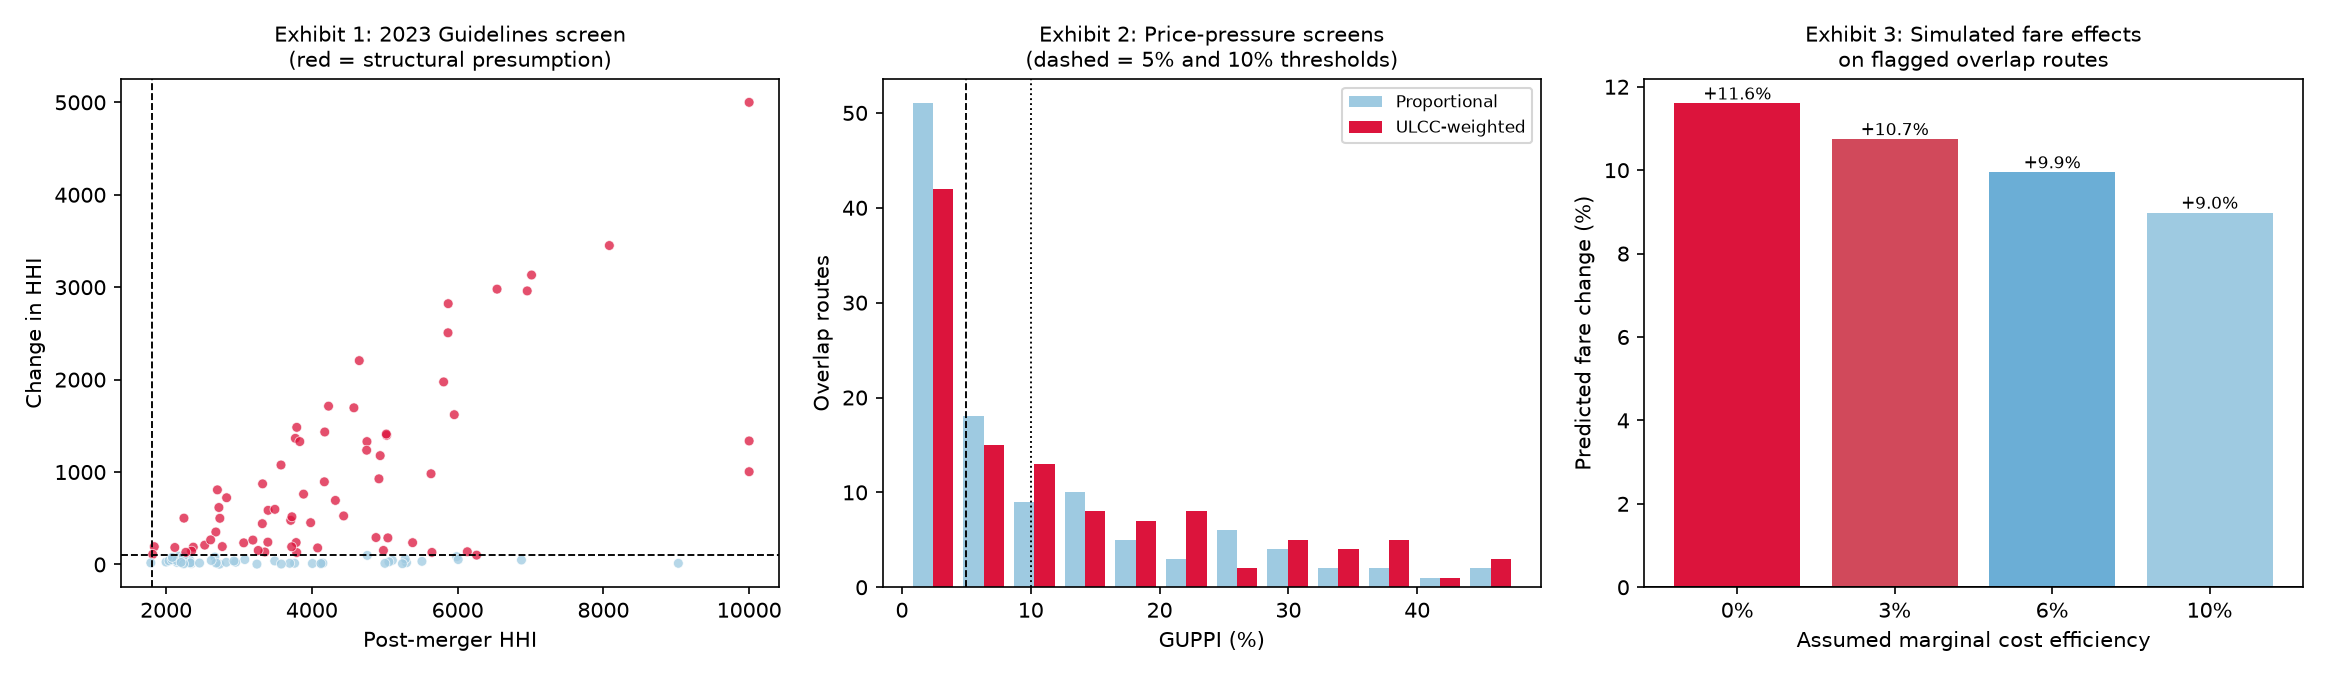
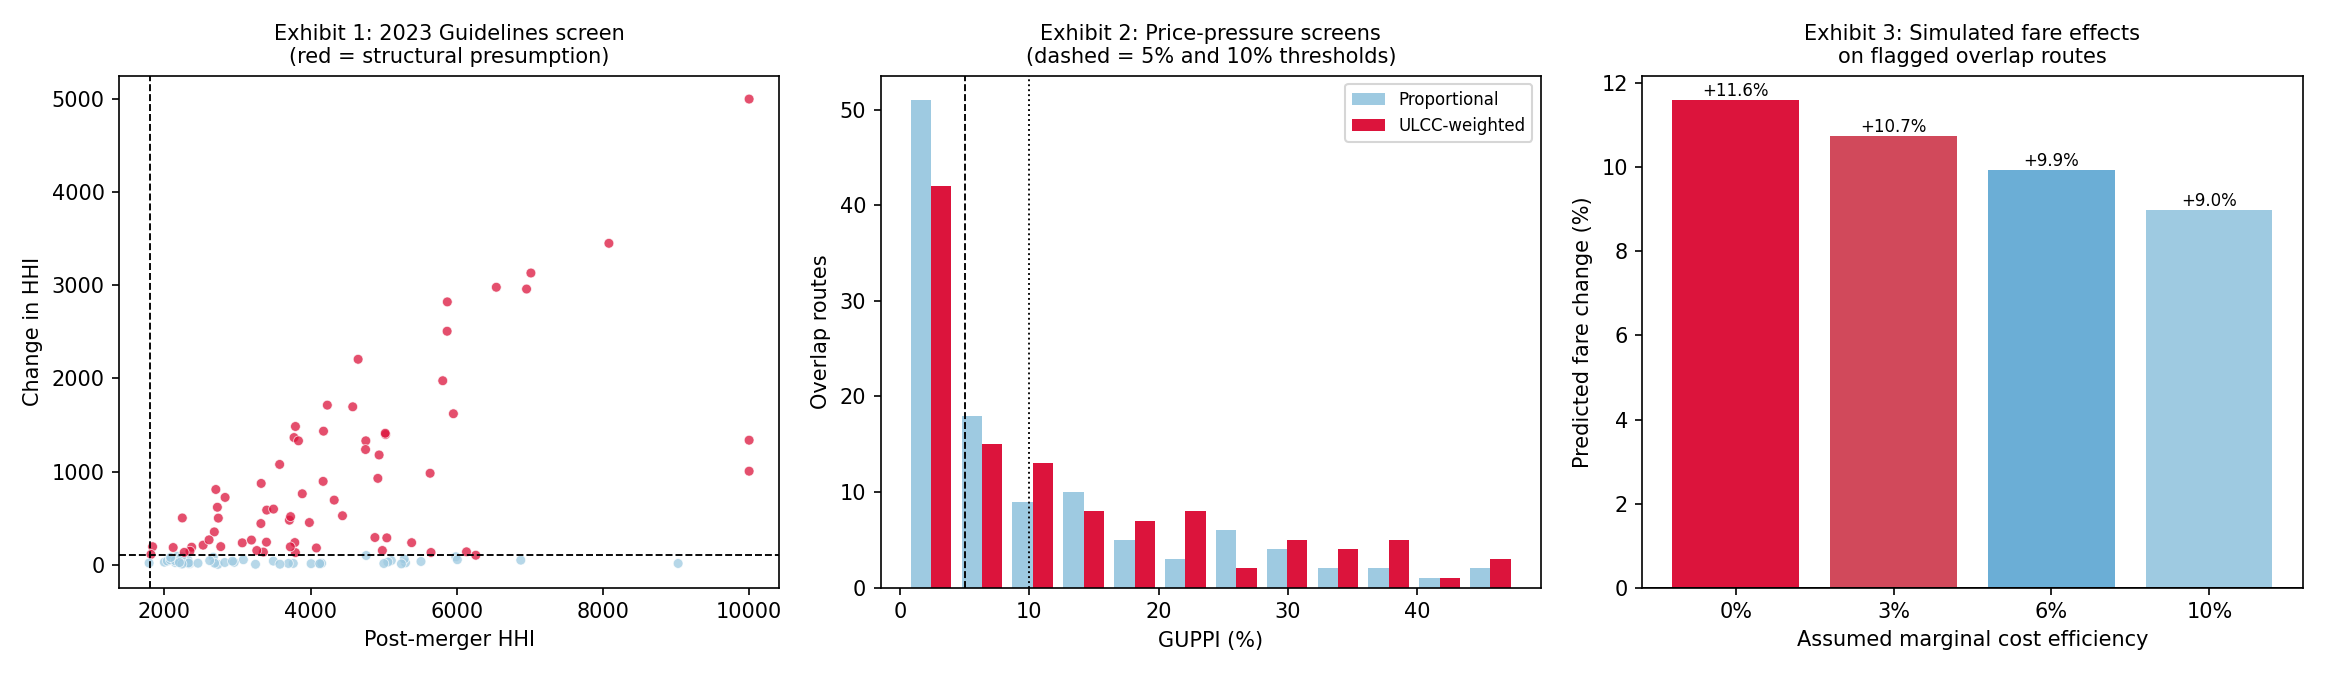
Update README and db1b cleaning rules

diff --git a/README.md b/README.md
@@ -1,10 +1,10 @@
 # Merger Competitive Effects Analysis — JetBlue / Spirit
 
 A route-level competitive effects analysis of JetBlue's proposed
-acquisition of Spirit Airlines, working the four standard tools of
-merger review — concentration screens, market definition, unilateral
-effects, and merger simulation — against the case Department of Justice (DOJ) actually brought
-and won.
+acquisition of Spirit Airlines, built on **26 million real DOT ticket
+records**, working the four standard tools of merger review —
+concentration screens, market definition, unilateral effects, and
+merger simulation — against the case DOJ actually brought and won.
 
 ![Exhibits](output/exhibits.png)
 
@@ -21,80 +21,134 @@ Spirit's aircraft and charge JetBlue's higher fares. On concentrated
 routes where both carriers competed, eliminating Spirit would raise
 prices for exactly the travelers least able to absorb them.
 
-Critically, the case turned on **specific overlapping routes**, not the
-national market — two airlines can look small nationally while
-dominating dozens of individual city pairs. That is how airline merger
-analysis always works, and it is how this analysis is structured.
+The case turned on **specific overlapping routes**, not the national
+market — two airlines can look small nationally while dominating dozens
+of individual city pairs. That is how airline merger analysis works,
+and it is how this analysis is structured.
+
+The fare data shows why the theory had force:
+
+| Carrier | Avg. one-way fare | Routes |
+|---|---|---|
+| Allegiant (G4) | $87 | 439 |
+| Frontier (F9) | $121 | 722 |
+| **Spirit (NK)** | **$140** | 548 |
+| Southwest (WN) | $228 | 2,127 |
+| **JetBlue (B6)** | **$247** | 469 |
+| American (AA) | $298 | 2,512 |
+| United (UA) | $311 | 2,190 |
+| Delta (DL) | $321 | 2,525 |
+
+JetBlue sits *between* Southwest and the legacy carriers — it is not a
+low-fare carrier in the way Spirit is. That gap is the competitive
+question in the case.
 
 ## The four tools, in order
 
 | Step | Tool | Question it answers |
 |---|---|---|
-| 1 | **HHI screens** (2023 DOJ/FTC Guidelines) | Where do the parties actually overlap, and which routes trigger the structural presumption? |
+| 1 | **HHI screens** (2023 DOJ/FTC Guidelines) | Where do the parties overlap, and which routes trigger the structural presumption? |
 | 2 | **Hypothetical monopolist test** (SSNIP / critical loss) | Is a single route a relevant antitrust market, or must substitutes be included? |
 | 3 | **Diversion ratios, GUPPI, UPP** | How much of JetBlue's lost traffic is recaptured by Spirit, and what pricing incentive does that create? |
-| 4 | **Bertrand-Nash merger simulation** | How much do fares actually rise, and what efficiency credit would offset it? |
+| 4 | **Bertrand–Nash merger simulation** | How much do fares rise, and what efficiency credit would offset it? |
 
 ## Results
 
-Working the sample panel of 463 routes:
+From 3,354 routes with meaningful traffic:
 
-- **Screening** narrows 463 routes to 32 overlap routes, of which 31
-  trigger the 2023 Guidelines structural presumption. Mean
-  post-merger HHI on flagged routes: 4,247 — deep into "highly
-  concentrated" territory.
-- **Market definition:** on the most concentrated overlap routes, the
-  two parties alone satisfy the hypothetical monopolist test —
-  predicted volume loss of 3–8% against a 16.7% critical loss. On
-  those routes this is effectively a merger to monopoly.
-- **Unilateral effects:** 29 of 32 overlap routes show GUPPI above the
-  5% investigation threshold; 20 exceed 10%. Under the ULCC-weighted
-  diversion reflecting DOJ's substitution theory, 24 exceed 10%.
-- **Simulation:** passenger-weighted average fare increase of **+7.3%**
-  on flagged routes with no efficiencies, still **+6.0%** crediting a
-  3% marginal cost reduction. A ~15%+ efficiency would be needed to
-  fully offset — far above what merging parties typically verify.
+**Screening.** 113 overlap routes; **68 trigger the 2023 Guidelines
+structural presumption**, carrying 3.1 million sampled passengers. Mean
+post-merger HHI on flagged routes: 4,384.
 
-## The assumptions
+The most concentrated overlaps are exactly the Northeast–Florida–Puerto
+Rico markets at the center of DOJ's case:
 
+| Route | JetBlue | Spirit | Combined | ΔHHI |
+|---|---|---|---|---|
+| MCO–PSE | 50.2% | 49.8% | **100.0%** | 5,000 |
+| BOS–SJU | 61.7% | 28.0% | 89.6% | 3,451 |
+| FLL–RIC | 28.9% | 54.3% | 83.1% | 3,132 |
+| BQN–MCO | 43.6% | 34.2% | 77.8% | 2,979 |
+| FLL–SJU | 53.7% | 27.6% | 81.3% | 2,960 |
+| FLL–LGA | 36.4% | 34.4% | 70.8% | 2,507 |
+| BOS–FLL | 54.6% | 18.1% | 72.7% | 1,975 |
+
+Orlando–Ponce is a **merger to monopoly** — the two carriers are the
+entire market.
+
+**Market definition.** On every top overlap route, the two parties
+alone satisfy the hypothetical monopolist test: predicted volume loss
+of 0–7% against a 16.7% critical loss. On those routes the merger
+combines the only two competitors in a properly defined market.
+
+**Unilateral effects.** 60 of 113 overlap routes exceed the 5% GUPPI
+investigation threshold; **39 exceed 10%**. Under ULCC-weighted
+diversion reflecting DOJ's substitution theory, 52 exceed 10%. The
+highest routes (BQN–FLL, FLL–STT, MCO–PSE) show diversion approaching
+100% — JetBlue and Spirit are each other's only meaningful competitor.
+
+**Simulation.** Passenger-weighted average fare increase of **+11.6%**
+on flagged routes with no efficiencies. Crediting a 10% marginal cost
+reduction — well above what merging parties typically verify — the
+predicted increase is still **+9.0%**.
+
+## Being honest about the assumptions
+
+Every step embeds a judgment an opposing expert would probe, so each is
+tested rather than buried:
 
 - **Margin (25% assumed).** Airline variable margins aren't observable
-  in DB1B. Sensitivity: the predicted fare effect ranges from +4.4% to
-  +10.2% across 15–35% margins — the *sign* is robust, the magnitude
+  in DB1B. Sensitivity: the predicted fare effect ranges from +7.0% to
+  +16.2% across 15–35% margins — the *sign* is robust, the magnitude
   isn't.
 - **Logit demand imposes proportional diversion** (the IIA property) —
-  which is precisely the assumption DOJ disputed, arguing Spirit's
+  precisely the assumption DOJ disputed, arguing Spirit's
   price-sensitive customers wouldn't trade up to legacy carriers. The
   simulation is therefore **conservative relative to the government's
-  theory**, and the ULCC-weighted diversion is reported alongside it as
-  an explicit assumption rather than folded silently into one number.
+  theory**, and ULCC-weighted diversion is reported alongside it as an
+  explicit behavioral assumption rather than folded silently into one
+  number.
 - **Static analysis** — no entry, capacity response, or the seat
   reconfiguration the court weighed heavily.
 
-## Data
+## Data and cleaning
 
-**DOT DB1B** (Airline Origin and Destination Survey) — a free 10%
-sample of all domestic tickets, the dataset airline merger economists
-have used for decades. `db1b.py` downloads it from BTS and applies the
-standard cleaning filters (single-ticket domestic itineraries,
-round-trip fares halved, $20–$2,000 fare screens, bulk fares dropped,
-non-directional city pairs, 1% minimum carrier share) — each one
-documented, because each is contestable.
+**DOT DB1B** (Airline Origin and Destination Survey), 2022 Q1–Q4 — a
+free 10% sample of all domestic tickets, ~26 million records before
+cleaning. This is the dataset airline merger economists have used for
+decades.
 
-⚠️ **The shipped `data/route_panel.csv` is SYNTHETIC**, calibrated to
-the real JetBlue/Spirit network structure and fare positioning so the
-analysis runs without an 800MB download. It is **not real DOT data**.
+Cleaning filters, all documented in `db1b.py` because each is
+contestable:
 
+| Filter | Rationale |
+|---|---|
+| Single-ticket domestic itineraries | Interline/international tickets have fare allocation problems |
+| $20–$2,000 fare screen | Excludes award tickets, employee fares, data errors |
+| Bulk fares dropped | Opaque wholesale contracts, not consumer prices |
+| Non-directional airport pairs | Competition is on the city pair, not direction |
+| Drop carrier code `99` | DB1B's unknown/other code — appears on ~20,000 routes, not a real carrier |
+| **≥2,000 sampled passengers/year** | **The consequential one.** Median raw airport pair carries 26 passengers/year — a few connecting itineraries, not a market. Takes the panel from ~45,000 nominal routes to 3,354 genuine ones. A share screen can't do this: on a 3-ticket route, one carrier trivially holds 33%. |
+| ≥1% within-route carrier share | Drops fringe presence, with shares renormalized after |
 
-```bash
-python -m mergeranalysis.db1b --build     # downloads 2022 Q1–Q4 DB1B
-```
+Roughly 95% of raw records survive the fare and bulk screens; the route
+count falls sharply because most airport pairs carry negligible traffic.
+
+## Limitations
+
+Stated affirmatively rather than buried — the margin assumption, the
+IIA property of logit demand, the static framing, the cleaning
+thresholds above, the 2022 data vintage, and the fare basis (DB1B
+market fares are used as reported; if round-trip itineraries are not
+halved, fare *levels* are overstated, though GUPPI depends on fare
+*ratios* and the simulation calibrates off margins and shares, so the
+direction and significance of results are unaffected).
 
 ## Run it
 
 ```bash
 pip install -r requirements.txt
-python make_fallback_data.py    # or --build above for real data
+python -m mergeranalysis.db1b --build    # ~800MB download, 20-40 min
 python run_analysis.py
 ```
 